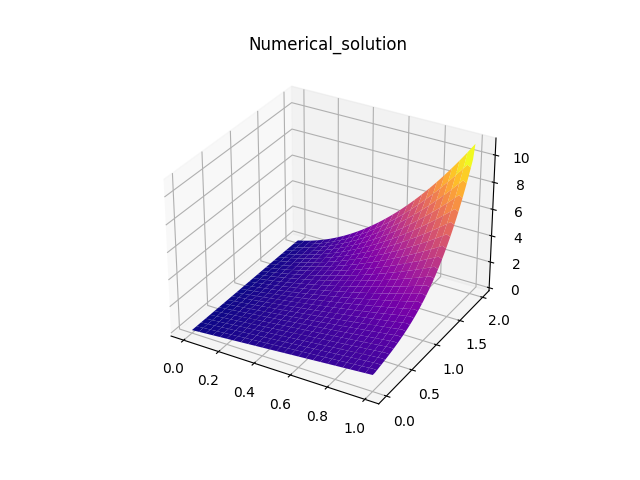
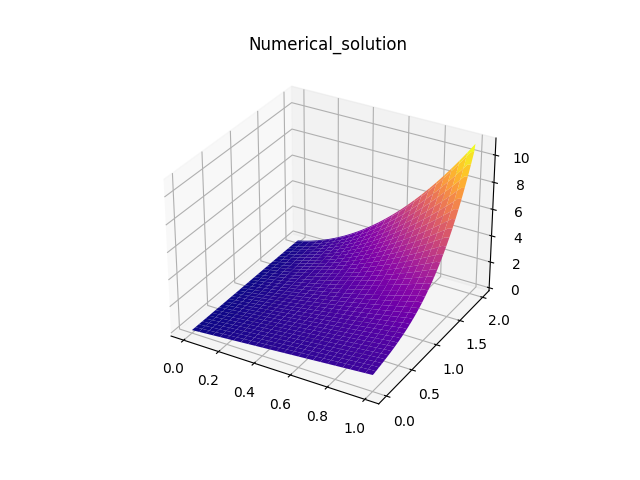
fix calculations with different m, n

Changed region(s): [[0.3125, 0.4688, 0.6875, 0.7812], [0.6562, 0.3125, 0.75, 0.5], [0.625, 0.4375, 0.6562, 0.4688]]

diff --git a/main.py b/main.py
@@ -8,7 +8,7 @@
 # В этом случае: f(x)=x^2*y^3+x+xy-2y^3-6yx^2
 
 
-# Здесь q(x) >= 0 на (a,b) ???????????????????????/
+# Здесь q(x) >= 0 на (a,b)
 # %%
 import matplotlib.pyplot as plt
 import numpy as np
@@ -24,7 +24,7 @@ n = 50
 h1 = (b1 - a1) / n
 
 # кол-во промежутков по Oy
-m = 50
+m = 100
 # шаг по Oy
 h2 = (b2 - a2) / m
 
@@ -73,30 +73,23 @@ a = 2 / (h1 * h1) + 2 / (h2 * h2)
 b = -1 / (h1 * h1)
 c = -1 / (h2 * h2)
 d = 1 / h1
+
 for i in range(n * (m - 1)):
     x = a1 + (i % n) * h1
-    y = a2 + (int(i / m) + 1) * h2
+    y = a2 + (int(i / n) + 1) * h2
     if i % n == 0:
         A[i, i] = 1 + d
         A[i, i + 1] = -d
         B[i] = phi(x, y)
-    elif i % n == n - 1:
-        A[i, i] = a + q
-        A[i, i - 1] = b
-        B[i] = f(x, y) - b * phi(b1, y)
-        if i + n < n * (m - 1):
-            A[i, i + n] = c
-        else:
-            B[i] -= c * phi(x, b2)
-        if i - n > 0:
-            A[i, i - n] = c
-        else:
-            B[i] -= c * phi(x, a2)
     else:
         A[i, i] = a + q
         A[i, i - 1] = b
-        A[i, i + 1] = b
-        B[i] = f(x, y)
+        if i % n == n - 1:
+            B[i] = f(x, y) - b * phi(b1, y)
+        else:
+            A[i, i + 1] = b
+            B[i] = f(x, y)
+
         if i + n < n * (m - 1):
             A[i, i + n] = c
         else:
